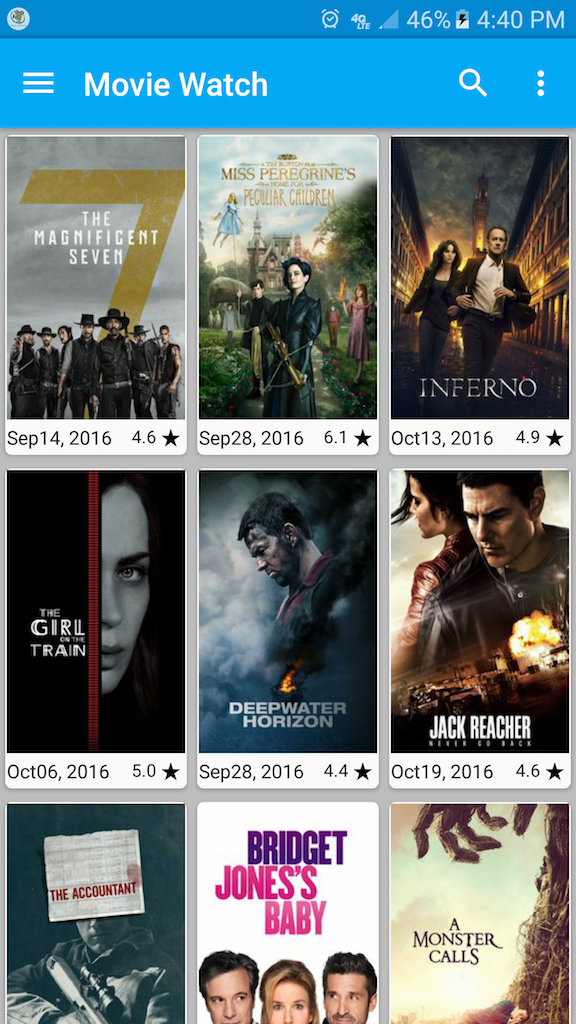
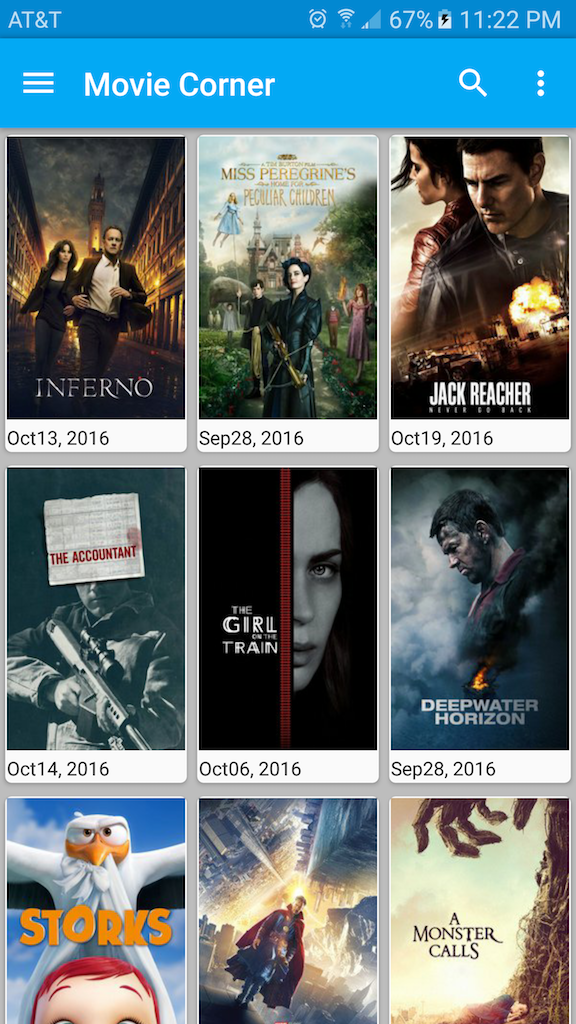
fix: add link to GooglePlay store

diff --git a/index.html b/index.html
@@ -57,9 +57,10 @@
                           <div class="col-md-2 img-responsive">
                           </div>
                           <div class="col-md-4 col-xs-6 img-responsive">
-                            <img src="images/Screenshot_popmovies4.png" alt="MovieWatch Project" class="img-responsive" data-toggle="modal" data-target="#MovieWatch">
-                            <h3>MovieWatch</h3>
-                            <p><a target="_blank" href="https://github.com/anoo-radha/MovieWatch_App">Link to project</a></p>
+                            <img src="images/Screenshot_popmovies4.png" alt="MovieCorner Project" class="img-responsive" data-toggle="modal" data-target="#MovieCorner">
+                            <h3>MovieCorner</h3>
+                            <p><a target="_blank" href="https://play.google.com/store/apps/details?id=com.anuradha.moviewatch&hl=en">in GooglePlaystore</a>
+                            <br><a target="_blank" href="https://github.com/anoo-radha/MovieCorner_App">Link to project</a></p>
                           </div>
                         </div>
                         <br>
@@ -76,7 +77,8 @@
                           <div class="col-md-4 col-xs-6 img-responsive">
                             <img src="images/Screenshot_dhyana5.png" alt="Dhyana Project" class="img-responsive" data-toggle="modal" data-target="#Dhyana">
                             <h3>Dhyana</h3>
-                            <p><a target="_blank" href="https://github.com/anoo-radha/Dhyana_App">Link to project</a></p>
+                            <p><a target="_blank" href="https://play.google.com/store/apps/details?id=com.anuradha.dhyana&hl=en">in GooglePlaystore</a>
+                            <br><a target="_blank" href="https://github.com/anoo-radha/Dhyana_App">Link to project</a></p>
                           </div>
                         </div>
                     </div><!--//section-inner-->
@@ -154,11 +156,11 @@ This app was taken from a functional state to a production-ready state and submi
         </div>
     </div>
 
-    <div class="modal fade" id="MovieWatch" tabindex="-1" role="dialog" aria-labelledby="myModalLabel" aria-hidden="true">
+    <div class="modal fade" id="MovieCorner" tabindex="-1" role="dialog" aria-labelledby="myModalLabel" aria-hidden="true">
         <div class="modal-dialog  modal-lg">
             <div class="modal-content">
                 <div class="modal-header">
-                    <h4 class="modal-title" id="myModalLabel">MovieWatch App</h4>
+                    <h4 class="modal-title" id="myModalLabel">MovieCorner App</h4>
                 </div>
                 <div class="modal-body">
                     <div class="row">
